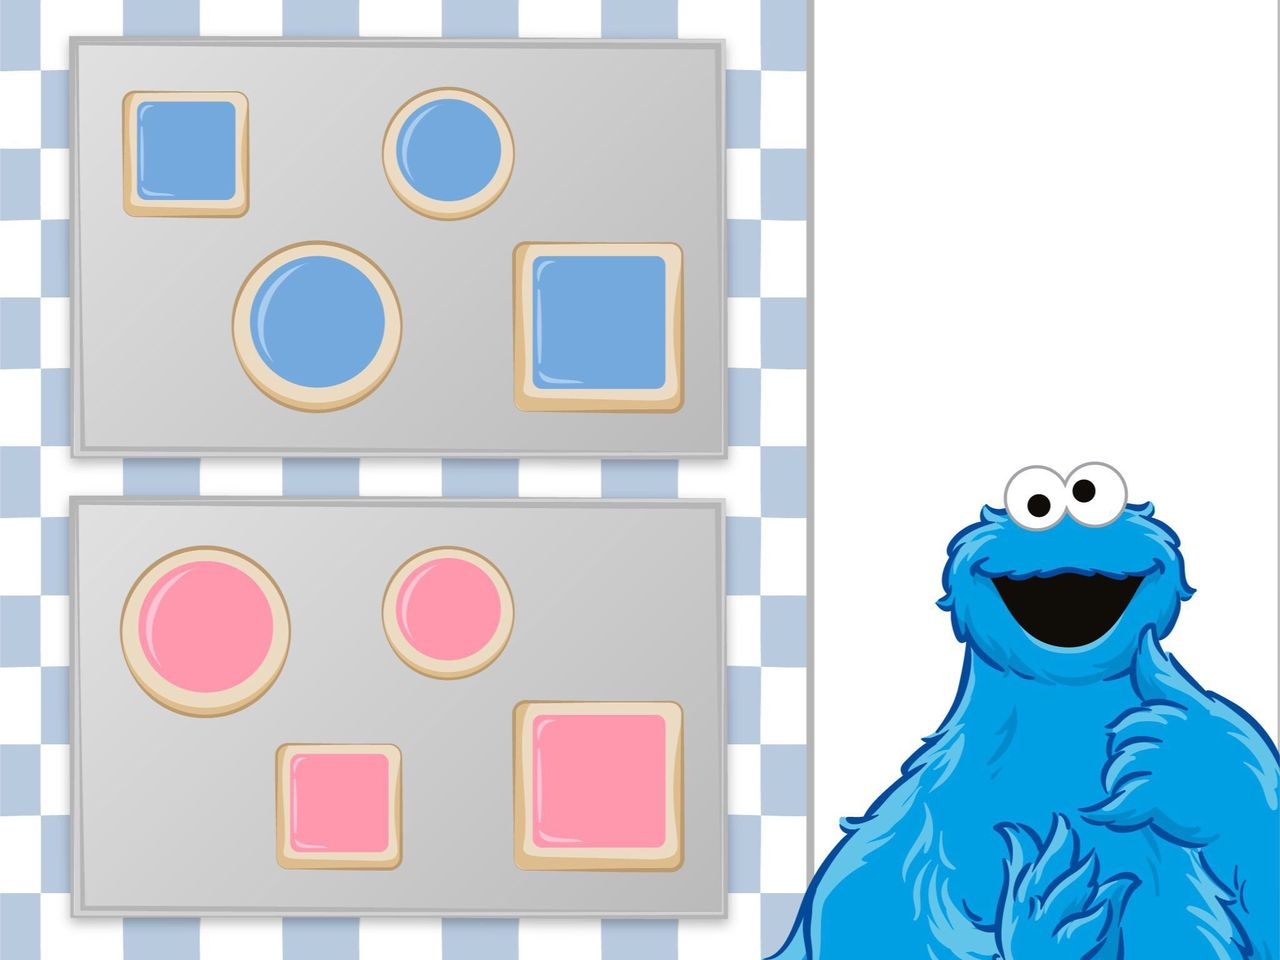
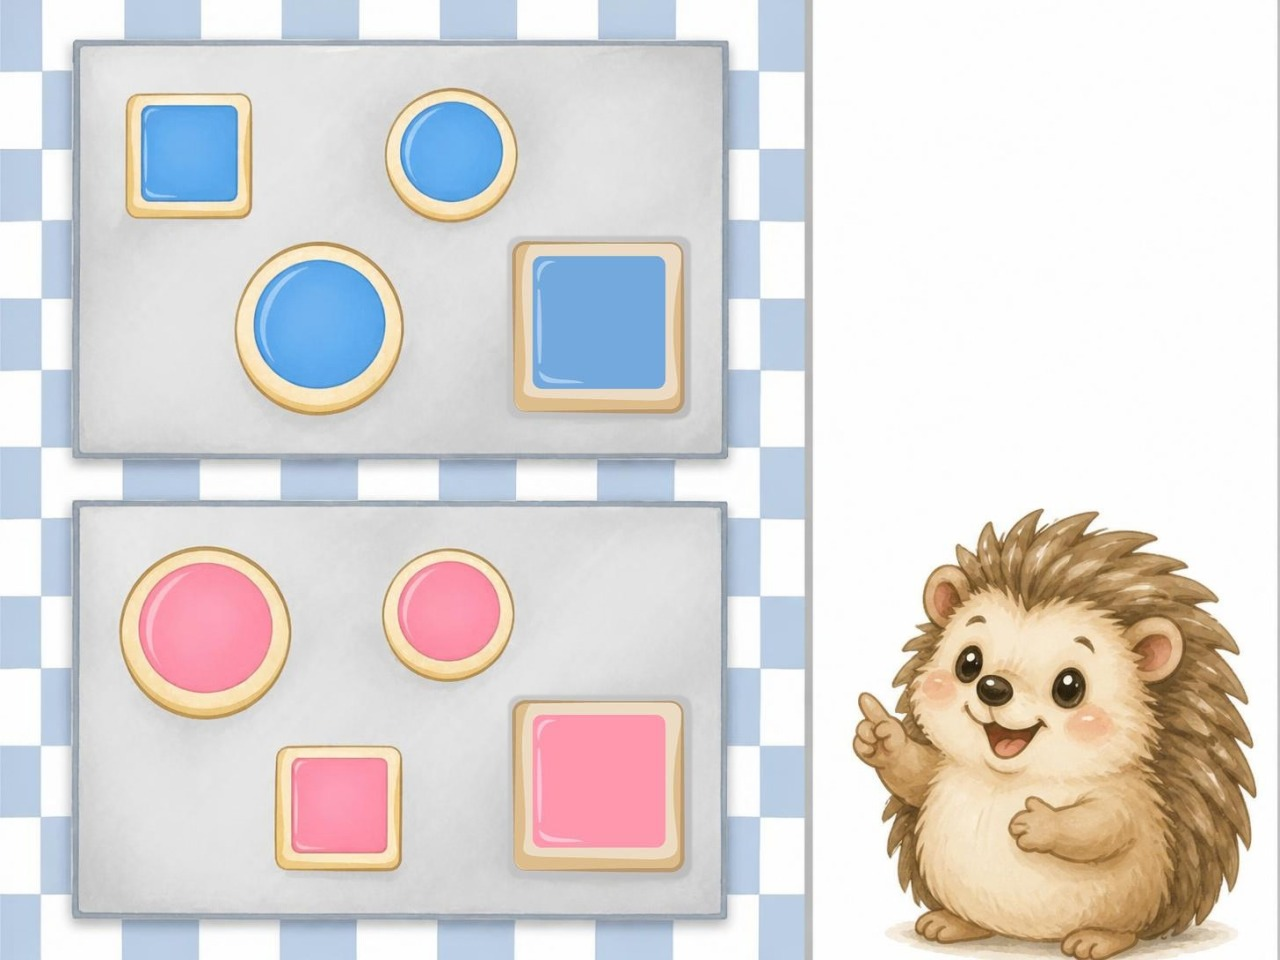
Sesame Street characters replaced in 'מיון בדרכים שונות' (6 slides)

diff --git a/games/g4l5a/index.html b/games/g4l5a/index.html
@@ -153,7 +153,7 @@ body.framed #app .top .brand{display:none}
 </script>
 <script>
 /*CFGLINE*/
-const CFG = {"slides": [{"i": 0, "t": "R", "img": "img/s0.jpg?b=4", "acts": [{"intro": "aud/photo1__activity0__activity0.mp3", "advance": true, "idle": null, "shapes": []}], "layers": [{"t": "bg", "src": "lay/s0_0.jpg?b=4", "w": 2048, "h": 1536, "m": [1, 0, 0, 1, 0, 0], "show": 0, "tog": false}]}, {"i": 1, "t": "P", "img": "img/s1.jpg?b=4", "acts": [{"intro": "aud/photo2__activity0__activity0.mp3", "advance": false, "idle": null, "shapes": [{"d": "M 549.5 629.1 L 549.5 692.0 C 549.5 695.8 546.3 699.0 542.5 699.0 L 416.3 699.0 C 412.4 699.0 409.3 695.8 409.3 692.0 L 409.3 566.2 C 409.3 562.3 412.4 559.2 416.3 559.2 L 542.5 559.2 C 546.3 559.2 549.5 562.3 549.5 566.2 Z", "bb": [409, 559, 549, 699], "r1": "aud/photo2__activity0__shape1__record1_1.mp3", "r2": null, "ans": [], "link": null, "tx": 292.1, "ty": -518, "idle": null}, {"d": "M 549.1 261.6 L 549.1 324.5 C 549.1 328.3 546.0 331.5 542.1 331.5 L 415.9 331.5 C 412.0 331.5 408.9 328.3 408.9 324.5 L 408.9 198.7 C 408.9 194.8 412.0 191.7 415.9 191.7 L 542.1 191.7 C 546.0 191.7 549.1 194.8 549.1 198.7 Z", "bb": [409, 192, 549, 331], "r1": "aud/photo2__activity0__shape2__record1_2.mp3", "r2": null, "ans": [], "link": null, "tx": 438.9, "ty": 16.9, "idle": null}]}]}, {"i": 2, "t": "P", "img": "img/s2.jpg?b=4", "acts": [{"intro": "aud/photo3__activity0__activity0.mp3", "advance": false, "idle": null, "shapes": [{"d": "M 546.5 630.9 C 546.5 669.6 515.9 700.9 478.1 700.9 C 440.3 700.9 409.6 669.6 409.6 630.9 C 409.6 592.3 440.3 561.0 478.1 561.0 C 515.9 561.0 546.5 592.3 546.5 630.9 Z", "bb": [410, 561, 547, 701], "r1": "aud/photo3__activity0__shape3__record1_3.mp3", "r2": null, "ans": [], "link": null, "tx": 439.9, "ty": -517.9, "idle": null}, {"d": "M 415.0 490.7 C 415.0 521.3 390.2 546.2 359.5 546.2 C 328.9 546.2 304.0 521.3 304.0 490.7 C 304.0 460.0 328.9 435.2 359.5 435.2 C 390.2 435.2 415.0 460.0 415.0 490.7 Z", "bb": [304, 435, 415, 546], "r1": "aud/photo3__activity0__shape4__record1_4.mp3", "r2": null, "ans": [], "link": null, "tx": 395.5, "ty": -183.8, "idle": null}, {"d": "M 410.5 123.4 L 410.5 166.7 C 410.5 170.5 407.3 173.7 403.5 173.7 L 313.8 173.7 C 309.9 173.7 306.8 170.5 306.8 166.7 L 306.8 80.1 C 306.8 76.2 309.9 73.1 313.8 73.1 L 403.5 73.1 C 407.3 73.1 410.5 76.2 410.5 80.1 Z", "bb": [307, 73, 410, 174], "r1": "aud/photo3__activity0__shape5__record1_5.mp3", "r2": null, "ans": [], "link": null, "tx": 397.1, "ty": 49.6, "idle": null}, {"d": "M 549.1 261.6 L 549.1 324.5 C 549.1 328.3 546.0 331.5 542.1 331.5 L 415.9 331.5 C 412.0 331.5 408.9 328.3 408.9 324.5 L 408.9 198.7 C 408.9 194.8 412.0 191.7 415.9 191.7 L 542.1 191.7 C 546.0 191.7 549.1 194.8 549.1 198.7 Z", "bb": [409, 192, 549, 331], "r1": "aud/photo3__activity0__shape2__record1_2.mp3", "r2": null, "ans": [], "link": null, "tx": 436.2, "ty": 13.9, "idle": null}]}]}, {"i": 3, "t": "P", "img": "img/s3.jpg?b=4", "acts": [{"intro": "aud/photo4__activity0__activity0.mp3", "advance": false, "idle": null, "shapes": [{"d": "M 398.7 239.4 L 398.7 296.1 C 398.7 306.5 390.3 314.9 379.9 314.9 L 266.4 314.9 C 256.1 314.9 247.7 306.5 247.7 296.1 L 247.7 182.6 C 247.7 172.2 256.1 163.9 266.4 163.9 L 379.9 163.9 C 390.3 163.9 398.7 172.2 398.7 182.6 Z", "bb": [248, 164, 399, 315], "r1": null, "r2": null, "ans": [], "link": null, "tx": 601.5, "ty": 369.3, "idle": null}, {"d": "M 577.0 240.0 C 577.0 281.7 543.2 315.5 501.5 315.5 C 459.8 315.5 426.0 281.7 426.0 240.0 C 426.0 198.3 459.8 164.5 501.5 164.5 C 543.2 164.5 577.0 198.3 577.0 240.0 Z", "bb": [426, 164, 577, 316], "r1": null, "r2": null, "ans": [], "link": null, "tx": 423.8, "ty": 193.2, "idle": null}, {"d": "M 399.4 529.2 L 399.4 586.0 C 399.4 596.3 391.1 604.7 380.7 604.7 L 267.2 604.7 C 256.8 604.7 248.4 596.3 248.4 586.0 L 248.4 472.5 C 248.4 462.1 256.8 453.7 267.2 453.7 L 380.7 453.7 C 391.1 453.7 399.4 462.1 399.4 472.5 Z", "bb": [248, 454, 399, 605], "r1": null, "r2": null, "ans": [], "link": null, "tx": 427.5, "ty": -94.2, "idle": null}, {"d": "M 577.0 530.2 C 577.0 571.9 543.2 605.8 501.5 605.8 C 459.8 605.8 426.0 571.9 426.0 530.2 C 426.0 488.6 459.8 454.8 501.5 454.8 C 543.2 454.8 577.0 488.6 577.0 530.2 Z", "bb": [426, 455, 577, 606], "r1": null, "r2": null, "ans": [], "link": null, "tx": 248.6, "ty": 81.0, "idle": null}]}]}, {"i": 4, "t": "P", "img": "img/s4.jpg?b=4", "acts": [{"intro": "aud/photo5__activity0__activity0.mp3", "advance": false, "idle": null, "shapes": [{"d": "M 398.7 239.4 L 398.7 296.1 C 398.7 306.5 390.3 314.9 379.9 314.9 L 266.4 314.9 C 256.1 314.9 247.7 306.5 247.7 296.1 L 247.7 182.6 C 247.7 172.2 256.1 163.9 266.4 163.9 L 379.9 163.9 C 390.3 163.9 398.7 172.2 398.7 182.6 Z", "bb": [248, 164, 399, 315], "r1": null, "r2": null, "ans": [], "link": null, "tx": 598.9, "ty": 379.4, "idle": null}, {"d": "M 577.0 240.0 C 577.0 281.7 543.2 315.5 501.5 315.5 C 459.8 315.5 426.0 281.7 426.0 240.0 C 426.0 198.3 459.8 164.5 501.5 164.5 C 543.2 164.5 577.0 198.3 577.0 240.0 Z", "bb": [426, 164, 577, 316], "r1": null, "r2": null, "ans": [], "link": null, "tx": 247.9, "ty": 374.7, "idle": null}, {"d": "M 577.0 530.2 C 577.0 571.9 543.2 605.8 501.5 605.8 C 459.8 605.8 426.0 571.9 426.0 530.2 C 426.0 488.6 459.8 454.8 501.5 454.8 C 543.2 454.8 577.0 488.6 577.0 530.2 Z", "bb": [426, 455, 577, 606], "r1": null, "r2": null, "ans": [], "link": null, "tx": 425.6, "ty": -95.2, "idle": null}, {"d": "M 399.4 529.2 L 399.4 586.0 C 399.4 596.3 391.1 604.7 380.7 604.7 L 267.2 604.7 C 256.8 604.7 248.4 596.3 248.4 586.0 L 248.4 472.5 C 248.4 462.1 256.8 453.7 267.2 453.7 L 380.7 453.7 C 391.1 453.7 399.4 462.1 399.4 472.5 Z", "bb": [248, 454, 399, 605], "r1": null, "r2": null, "ans": [], "link": null, "tx": 427.5, "ty": -94.2, "idle": null}]}]}, {"i": 5, "t": "P", "img": "img/s5.jpg?b=4", "acts": [{"intro": "aud/photo6__activity0__activity0.mp3", "advance": false, "idle": null, "shapes": [{"d": "M 576.8 237.5 L 576.8 294.2 C 576.8 304.6 568.4 313.0 558.1 313.0 L 444.6 313.0 C 434.2 313.0 425.8 304.6 425.8 294.2 L 425.8 180.7 C 425.8 170.4 434.2 162.0 444.6 162.0 L 558.1 162.0 C 568.4 162.0 576.8 170.4 576.8 180.7 Z", "bb": [426, 162, 577, 313], "r1": null, "r2": null, "ans": [], "link": null, "tx": 255.5, "ty": -69.4, "idle": null}, {"d": "M 394.4 239.2 C 394.4 280.9 360.6 314.8 318.9 314.8 C 277.2 314.8 243.4 280.9 243.4 239.2 C 243.4 197.6 277.2 163.8 318.9 163.8 C 360.6 163.8 394.4 197.6 394.4 239.2 Z", "bb": [243, 164, 394, 315], "r1": null, "r2": null, "ans": [], "link": null, "tx": 438.1, "ty": 116, "idle": null}, {"d": "M 394.8 528.8 C 394.8 570.4 360.9 604.2 319.2 604.2 C 277.6 604.2 243.8 570.4 243.8 528.8 C 243.8 487.1 277.6 453.2 319.2 453.2 C 360.9 453.2 394.8 487.1 394.8 528.8 Z", "bb": [244, 453, 395, 604], "r1": null, "r2": null, "ans": [], "link": null, "tx": 610.1, "ty": -363.6, "idle": null}, {"d": "M 576.8 528.1 L 576.8 584.9 C 576.8 595.2 568.4 603.6 558.1 603.6 L 444.6 603.6 C 434.2 603.6 425.8 595.2 425.8 584.9 L 425.8 471.4 C 425.8 461.0 434.2 452.6 444.6 452.6 L 558.1 452.6 C 568.4 452.6 576.8 461.0 576.8 471.4 Z", "bb": [426, 453, 577, 604], "r1": null, "r2": null, "ans": [], "link": null, "tx": 426.9, "ty": -164.6, "idle": null}]}]}, {"i": 6, "t": "P", "img": "img/s6.jpg?b=4", "acts": [{"intro": "aud/photo7__activity0__activity0.mp3", "advance": false, "idle": null, "shapes": [{"d": "M 577.0 238.5 C 577.0 280.2 543.2 314.0 501.5 314.0 C 459.8 314.0 426.0 280.2 426.0 238.5 C 426.0 196.8 459.8 163.0 501.5 163.0 C 543.2 163.0 577.0 196.8 577.0 238.5 Z", "bb": [426, 163, 577, 314], "r1": null, "r2": null, "ans": [], "link": null, "tx": 426.5, "ty": 135.6, "idle": null}, {"d": "M 576.6 527.6 C 576.6 569.3 542.8 603.1 501.1 603.1 C 459.4 603.1 425.6 569.3 425.6 527.6 C 425.6 485.9 459.4 452.1 501.1 452.1 C 542.8 452.1 576.6 485.9 576.6 527.6 Z", "bb": [426, 452, 577, 603], "r1": null, "r2": null, "ans": [], "link": null, "tx": 247.4, "ty": -153.2, "idle": null}, {"d": "M 394.6 238.6 L 394.6 295.4 C 394.6 305.7 386.2 314.1 375.8 314.1 L 262.3 314.1 C 252.0 314.1 243.6 305.7 243.6 295.4 L 243.6 181.9 C 243.6 171.5 252.0 163.1 262.3 163.1 L 375.8 163.1 C 386.2 163.1 394.6 171.5 394.6 181.9 Z", "bb": [244, 163, 395, 314], "r1": null, "r2": null, "ans": [], "link": null, "tx": 610.1, "ty": -72.7, "idle": null}, {"d": "M 394.2 528.1 L 394.2 584.9 C 394.2 595.2 385.8 603.6 375.4 603.6 L 261.9 603.6 C 251.6 603.6 243.2 595.2 243.2 584.9 L 243.2 471.4 C 243.2 461.0 251.6 452.6 261.9 452.6 L 375.4 452.6 C 385.8 452.6 394.2 461.0 394.2 471.4 Z", "bb": [243, 453, 394, 604], "r1": null, "r2": null, "ans": [], "link": null, "tx": 432, "ty": -364.9, "idle": null}]}]}, {"i": 7, "t": "R", "img": "img/s7.jpg?b=4", "acts": [{"intro": "aud/photo8__activity0__activity0.mp3", "advance": true, "idle": null, "shapes": []}], "layers": [{"t": "bg", "src": "lay/s7_0.jpg?b=4", "w": 2048, "h": 1536, "m": [1, 0, 0, 1, 0, 0], "show": 0, "tog": false}]}], "title": "מיון בדרכים שונות", "hash": "g4l5a", "brand": "חן קלימיאן", "writeBase": "../../letters/"};
+const CFG = {"slides": [{"i": 0, "t": "R", "img": "img/s0.jpg?b=4", "acts": [{"intro": "aud/photo1__activity0__activity0.mp3", "advance": true, "idle": null, "shapes": []}], "layers": [{"t": "bg", "src": "lay/s0_0.jpg?b=4", "w": 2048, "h": 1536, "m": [1, 0, 0, 1, 0, 0], "show": 0, "tog": false}]}, {"i": 1, "t": "P", "img": "img/s1.jpg?b=5", "acts": [{"intro": "aud/photo2__activity0__activity0.mp3", "advance": false, "idle": null, "shapes": [{"d": "M 549.5 629.1 L 549.5 692.0 C 549.5 695.8 546.3 699.0 542.5 699.0 L 416.3 699.0 C 412.4 699.0 409.3 695.8 409.3 692.0 L 409.3 566.2 C 409.3 562.3 412.4 559.2 416.3 559.2 L 542.5 559.2 C 546.3 559.2 549.5 562.3 549.5 566.2 Z", "bb": [409, 559, 549, 699], "r1": "aud/photo2__activity0__shape1__record1_1.mp3", "r2": null, "ans": [], "link": null, "tx": 292.1, "ty": -518, "idle": null}, {"d": "M 549.1 261.6 L 549.1 324.5 C 549.1 328.3 546.0 331.5 542.1 331.5 L 415.9 331.5 C 412.0 331.5 408.9 328.3 408.9 324.5 L 408.9 198.7 C 408.9 194.8 412.0 191.7 415.9 191.7 L 542.1 191.7 C 546.0 191.7 549.1 194.8 549.1 198.7 Z", "bb": [409, 192, 549, 331], "r1": "aud/photo2__activity0__shape2__record1_2.mp3", "r2": null, "ans": [], "link": null, "tx": 438.9, "ty": 16.9, "idle": null}]}]}, {"i": 2, "t": "P", "img": "img/s2.jpg?b=5", "acts": [{"intro": "aud/photo3__activity0__activity0.mp3", "advance": false, "idle": null, "shapes": [{"d": "M 546.5 630.9 C 546.5 669.6 515.9 700.9 478.1 700.9 C 440.3 700.9 409.6 669.6 409.6 630.9 C 409.6 592.3 440.3 561.0 478.1 561.0 C 515.9 561.0 546.5 592.3 546.5 630.9 Z", "bb": [410, 561, 547, 701], "r1": "aud/photo3__activity0__shape3__record1_3.mp3", "r2": null, "ans": [], "link": null, "tx": 439.9, "ty": -517.9, "idle": null}, {"d": "M 415.0 490.7 C 415.0 521.3 390.2 546.2 359.5 546.2 C 328.9 546.2 304.0 521.3 304.0 490.7 C 304.0 460.0 328.9 435.2 359.5 435.2 C 390.2 435.2 415.0 460.0 415.0 490.7 Z", "bb": [304, 435, 415, 546], "r1": "aud/photo3__activity0__shape4__record1_4.mp3", "r2": null, "ans": [], "link": null, "tx": 395.5, "ty": -183.8, "idle": null}, {"d": "M 410.5 123.4 L 410.5 166.7 C 410.5 170.5 407.3 173.7 403.5 173.7 L 313.8 173.7 C 309.9 173.7 306.8 170.5 306.8 166.7 L 306.8 80.1 C 306.8 76.2 309.9 73.1 313.8 73.1 L 403.5 73.1 C 407.3 73.1 410.5 76.2 410.5 80.1 Z", "bb": [307, 73, 410, 174], "r1": "aud/photo3__activity0__shape5__record1_5.mp3", "r2": null, "ans": [], "link": null, "tx": 397.1, "ty": 49.6, "idle": null}, {"d": "M 549.1 261.6 L 549.1 324.5 C 549.1 328.3 546.0 331.5 542.1 331.5 L 415.9 331.5 C 412.0 331.5 408.9 328.3 408.9 324.5 L 408.9 198.7 C 408.9 194.8 412.0 191.7 415.9 191.7 L 542.1 191.7 C 546.0 191.7 549.1 194.8 549.1 198.7 Z", "bb": [409, 192, 549, 331], "r1": "aud/photo3__activity0__shape2__record1_2.mp3", "r2": null, "ans": [], "link": null, "tx": 436.2, "ty": 13.9, "idle": null}]}]}, {"i": 3, "t": "P", "img": "img/s3.jpg?b=5", "acts": [{"intro": "aud/photo4__activity0__activity0.mp3", "advance": false, "idle": null, "shapes": [{"d": "M 398.7 239.4 L 398.7 296.1 C 398.7 306.5 390.3 314.9 379.9 314.9 L 266.4 314.9 C 256.1 314.9 247.7 306.5 247.7 296.1 L 247.7 182.6 C 247.7 172.2 256.1 163.9 266.4 163.9 L 379.9 163.9 C 390.3 163.9 398.7 172.2 398.7 182.6 Z", "bb": [248, 164, 399, 315], "r1": null, "r2": null, "ans": [], "link": null, "tx": 601.5, "ty": 369.3, "idle": null}, {"d": "M 577.0 240.0 C 577.0 281.7 543.2 315.5 501.5 315.5 C 459.8 315.5 426.0 281.7 426.0 240.0 C 426.0 198.3 459.8 164.5 501.5 164.5 C 543.2 164.5 577.0 198.3 577.0 240.0 Z", "bb": [426, 164, 577, 316], "r1": null, "r2": null, "ans": [], "link": null, "tx": 423.8, "ty": 193.2, "idle": null}, {"d": "M 399.4 529.2 L 399.4 586.0 C 399.4 596.3 391.1 604.7 380.7 604.7 L 267.2 604.7 C 256.8 604.7 248.4 596.3 248.4 586.0 L 248.4 472.5 C 248.4 462.1 256.8 453.7 267.2 453.7 L 380.7 453.7 C 391.1 453.7 399.4 462.1 399.4 472.5 Z", "bb": [248, 454, 399, 605], "r1": null, "r2": null, "ans": [], "link": null, "tx": 427.5, "ty": -94.2, "idle": null}, {"d": "M 577.0 530.2 C 577.0 571.9 543.2 605.8 501.5 605.8 C 459.8 605.8 426.0 571.9 426.0 530.2 C 426.0 488.6 459.8 454.8 501.5 454.8 C 543.2 454.8 577.0 488.6 577.0 530.2 Z", "bb": [426, 455, 577, 606], "r1": null, "r2": null, "ans": [], "link": null, "tx": 248.6, "ty": 81.0, "idle": null}]}]}, {"i": 4, "t": "P", "img": "img/s4.jpg?b=5", "acts": [{"intro": "aud/photo5__activity0__activity0.mp3", "advance": false, "idle": null, "shapes": [{"d": "M 398.7 239.4 L 398.7 296.1 C 398.7 306.5 390.3 314.9 379.9 314.9 L 266.4 314.9 C 256.1 314.9 247.7 306.5 247.7 296.1 L 247.7 182.6 C 247.7 172.2 256.1 163.9 266.4 163.9 L 379.9 163.9 C 390.3 163.9 398.7 172.2 398.7 182.6 Z", "bb": [248, 164, 399, 315], "r1": null, "r2": null, "ans": [], "link": null, "tx": 598.9, "ty": 379.4, "idle": null}, {"d": "M 577.0 240.0 C 577.0 281.7 543.2 315.5 501.5 315.5 C 459.8 315.5 426.0 281.7 426.0 240.0 C 426.0 198.3 459.8 164.5 501.5 164.5 C 543.2 164.5 577.0 198.3 577.0 240.0 Z", "bb": [426, 164, 577, 316], "r1": null, "r2": null, "ans": [], "link": null, "tx": 247.9, "ty": 374.7, "idle": null}, {"d": "M 577.0 530.2 C 577.0 571.9 543.2 605.8 501.5 605.8 C 459.8 605.8 426.0 571.9 426.0 530.2 C 426.0 488.6 459.8 454.8 501.5 454.8 C 543.2 454.8 577.0 488.6 577.0 530.2 Z", "bb": [426, 455, 577, 606], "r1": null, "r2": null, "ans": [], "link": null, "tx": 425.6, "ty": -95.2, "idle": null}, {"d": "M 399.4 529.2 L 399.4 586.0 C 399.4 596.3 391.1 604.7 380.7 604.7 L 267.2 604.7 C 256.8 604.7 248.4 596.3 248.4 586.0 L 248.4 472.5 C 248.4 462.1 256.8 453.7 267.2 453.7 L 380.7 453.7 C 391.1 453.7 399.4 462.1 399.4 472.5 Z", "bb": [248, 454, 399, 605], "r1": null, "r2": null, "ans": [], "link": null, "tx": 427.5, "ty": -94.2, "idle": null}]}]}, {"i": 5, "t": "P", "img": "img/s5.jpg?b=5", "acts": [{"intro": "aud/photo6__activity0__activity0.mp3", "advance": false, "idle": null, "shapes": [{"d": "M 576.8 237.5 L 576.8 294.2 C 576.8 304.6 568.4 313.0 558.1 313.0 L 444.6 313.0 C 434.2 313.0 425.8 304.6 425.8 294.2 L 425.8 180.7 C 425.8 170.4 434.2 162.0 444.6 162.0 L 558.1 162.0 C 568.4 162.0 576.8 170.4 576.8 180.7 Z", "bb": [426, 162, 577, 313], "r1": null, "r2": null, "ans": [], "link": null, "tx": 255.5, "ty": -69.4, "idle": null}, {"d": "M 394.4 239.2 C 394.4 280.9 360.6 314.8 318.9 314.8 C 277.2 314.8 243.4 280.9 243.4 239.2 C 243.4 197.6 277.2 163.8 318.9 163.8 C 360.6 163.8 394.4 197.6 394.4 239.2 Z", "bb": [243, 164, 394, 315], "r1": null, "r2": null, "ans": [], "link": null, "tx": 438.1, "ty": 116, "idle": null}, {"d": "M 394.8 528.8 C 394.8 570.4 360.9 604.2 319.2 604.2 C 277.6 604.2 243.8 570.4 243.8 528.8 C 243.8 487.1 277.6 453.2 319.2 453.2 C 360.9 453.2 394.8 487.1 394.8 528.8 Z", "bb": [244, 453, 395, 604], "r1": null, "r2": null, "ans": [], "link": null, "tx": 610.1, "ty": -363.6, "idle": null}, {"d": "M 576.8 528.1 L 576.8 584.9 C 576.8 595.2 568.4 603.6 558.1 603.6 L 444.6 603.6 C 434.2 603.6 425.8 595.2 425.8 584.9 L 425.8 471.4 C 425.8 461.0 434.2 452.6 444.6 452.6 L 558.1 452.6 C 568.4 452.6 576.8 461.0 576.8 471.4 Z", "bb": [426, 453, 577, 604], "r1": null, "r2": null, "ans": [], "link": null, "tx": 426.9, "ty": -164.6, "idle": null}]}]}, {"i": 6, "t": "P", "img": "img/s6.jpg?b=5", "acts": [{"intro": "aud/photo7__activity0__activity0.mp3", "advance": false, "idle": null, "shapes": [{"d": "M 577.0 238.5 C 577.0 280.2 543.2 314.0 501.5 314.0 C 459.8 314.0 426.0 280.2 426.0 238.5 C 426.0 196.8 459.8 163.0 501.5 163.0 C 543.2 163.0 577.0 196.8 577.0 238.5 Z", "bb": [426, 163, 577, 314], "r1": null, "r2": null, "ans": [], "link": null, "tx": 426.5, "ty": 135.6, "idle": null}, {"d": "M 576.6 527.6 C 576.6 569.3 542.8 603.1 501.1 603.1 C 459.4 603.1 425.6 569.3 425.6 527.6 C 425.6 485.9 459.4 452.1 501.1 452.1 C 542.8 452.1 576.6 485.9 576.6 527.6 Z", "bb": [426, 452, 577, 603], "r1": null, "r2": null, "ans": [], "link": null, "tx": 247.4, "ty": -153.2, "idle": null}, {"d": "M 394.6 238.6 L 394.6 295.4 C 394.6 305.7 386.2 314.1 375.8 314.1 L 262.3 314.1 C 252.0 314.1 243.6 305.7 243.6 295.4 L 243.6 181.9 C 243.6 171.5 252.0 163.1 262.3 163.1 L 375.8 163.1 C 386.2 163.1 394.6 171.5 394.6 181.9 Z", "bb": [244, 163, 395, 314], "r1": null, "r2": null, "ans": [], "link": null, "tx": 610.1, "ty": -72.7, "idle": null}, {"d": "M 394.2 528.1 L 394.2 584.9 C 394.2 595.2 385.8 603.6 375.4 603.6 L 261.9 603.6 C 251.6 603.6 243.2 595.2 243.2 584.9 L 243.2 471.4 C 243.2 461.0 251.6 452.6 261.9 452.6 L 375.4 452.6 C 385.8 452.6 394.2 461.0 394.2 471.4 Z", "bb": [243, 453, 394, 604], "r1": null, "r2": null, "ans": [], "link": null, "tx": 432, "ty": -364.9, "idle": null}]}]}, {"i": 7, "t": "R", "img": "img/s7.jpg?b=4", "acts": [{"intro": "aud/photo8__activity0__activity0.mp3", "advance": true, "idle": null, "shapes": []}], "layers": [{"t": "bg", "src": "lay/s7_0.jpg?b=4", "w": 2048, "h": 1536, "m": [1, 0, 0, 1, 0, 0], "show": 0, "tog": false}]}], "title": "מיון בדרכים שונות", "hash": "g4l5a", "brand": "חן קלימיאן", "writeBase": "../../letters/"};
 const SL = CFG.slides, LAST = SL.length - 1;
 const NS = 'http://www.w3.org/2000/svg';
 const $ = id => document.getElementById(id);
